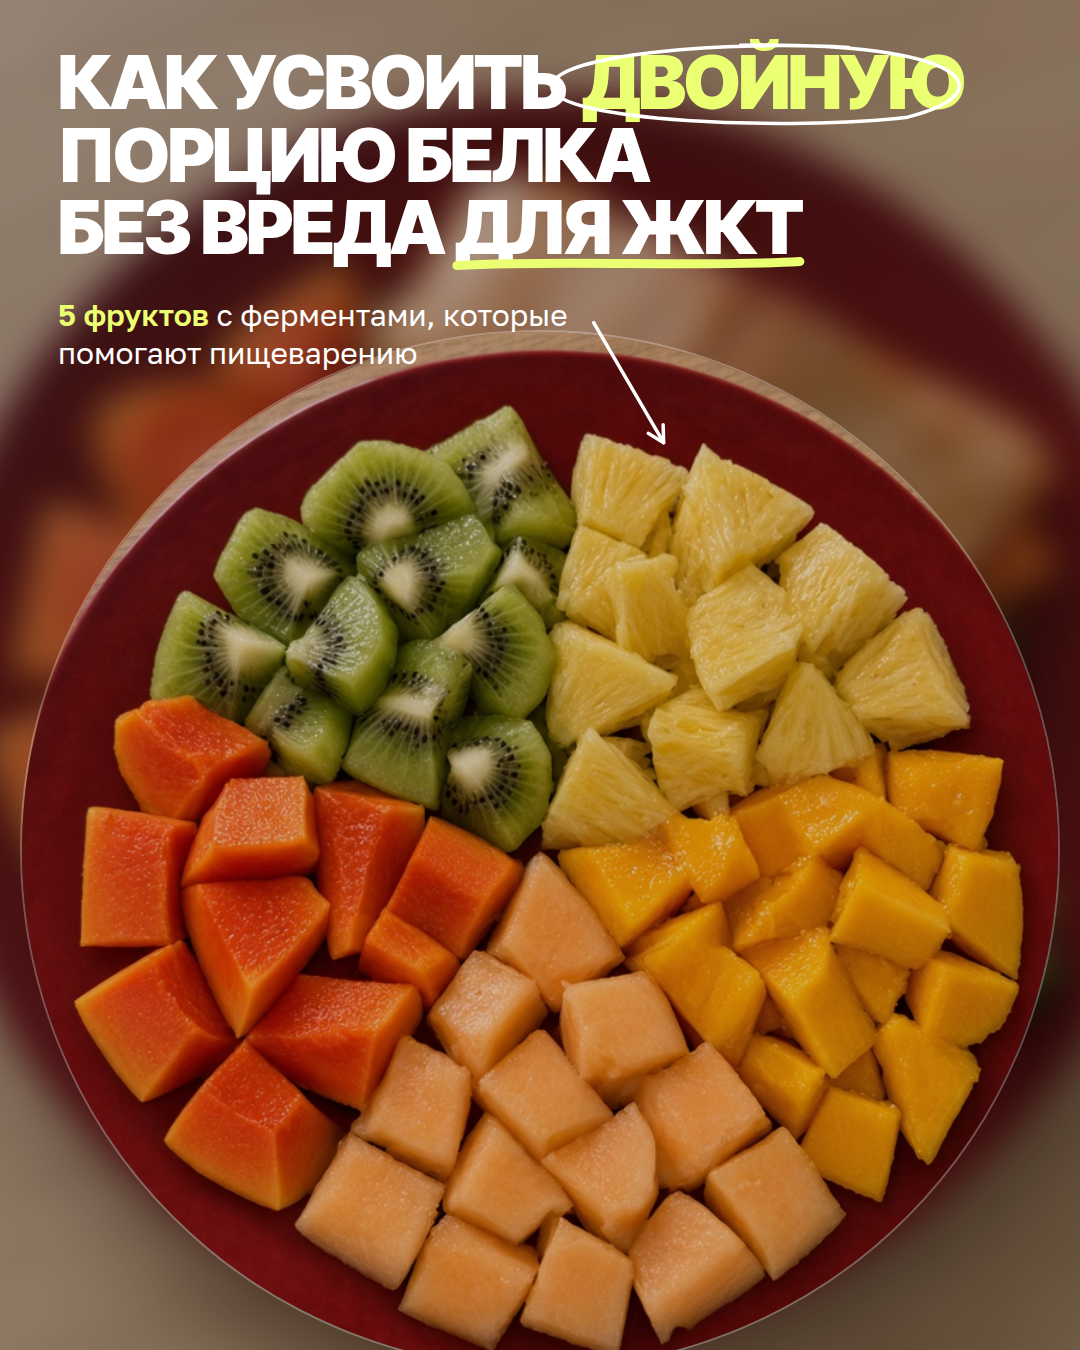
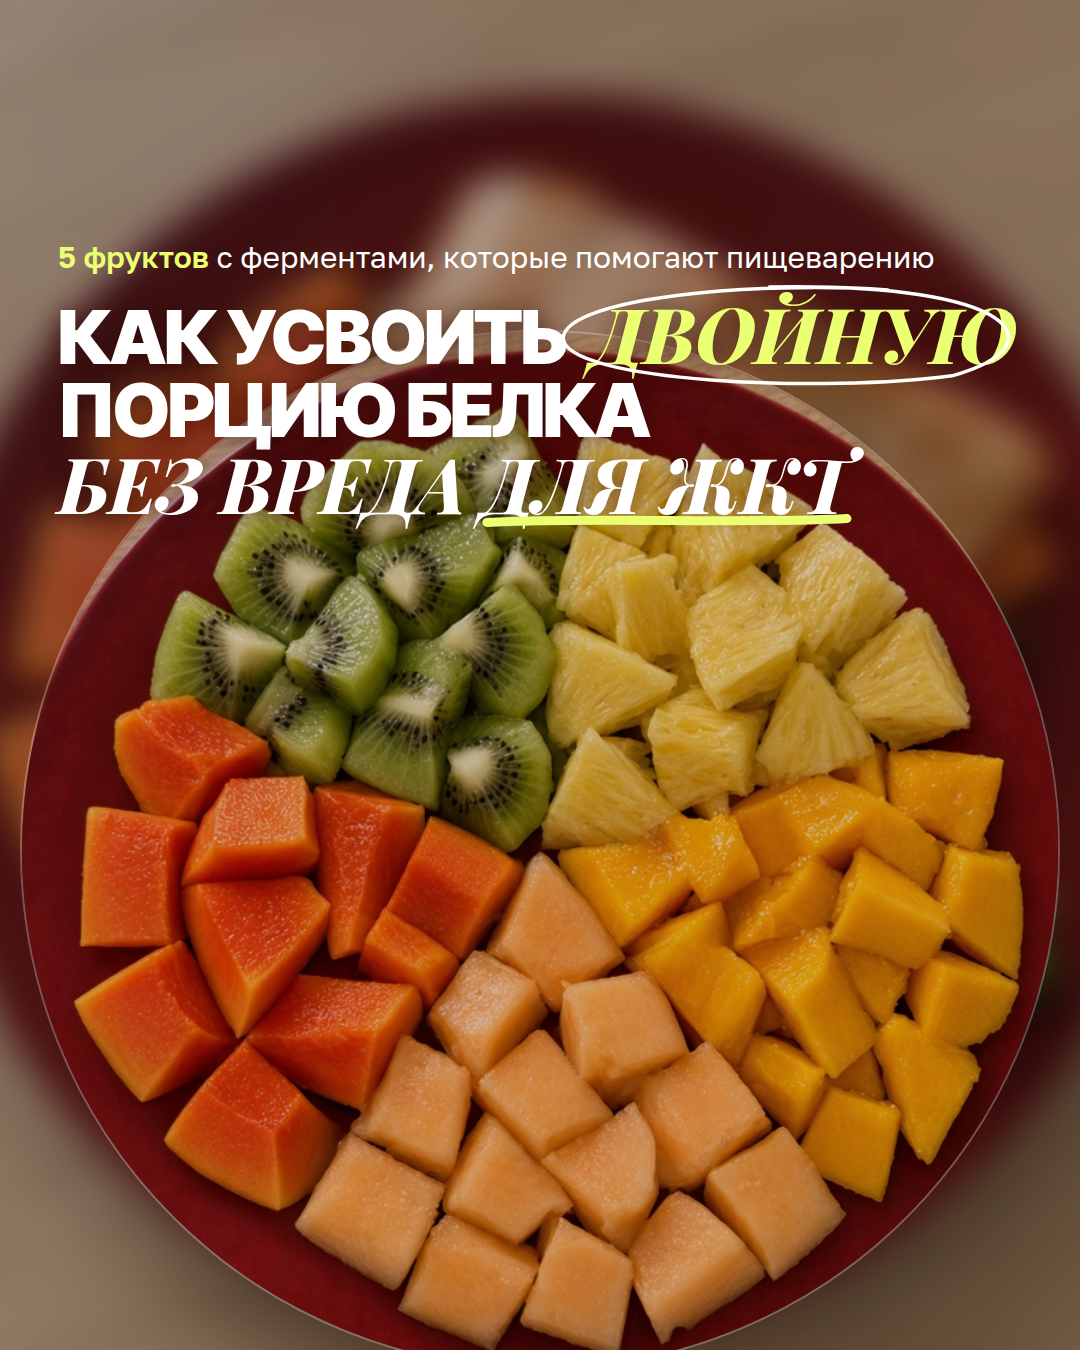
Cover: italic serif accents like reference, headline moved lower

Changed region(s): [[0.0306, 0.0311, 0.9472, 0.4044]]

diff --git a/instagram-fruits-zhkt/slide-01-title.html b/instagram-fruits-zhkt/slide-01-title.html
@@ -5,7 +5,7 @@
   <meta name="viewport" content="width=1080" />
   <link rel="preconnect" href="https://fonts.googleapis.com" />
   <link rel="preconnect" href="https://fonts.gstatic.com" crossorigin />
-  <link href="https://fonts.googleapis.com/css2?family=Golos+Text:wght@400;500;600&family=Inter+Tight:wght@800;900&display=swap" rel="stylesheet" />
+  <link href="https://fonts.googleapis.com/css2?family=Golos+Text:wght@400;500;600&family=Inter+Tight:wght@800;900&family=Playfair+Display:ital,wght@1,700;1,800&display=swap" rel="stylesheet" />
   <style>
     * { box-sizing: border-box; margin: 0; padding: 0; }
     html, body {
@@ -53,7 +53,7 @@
     .headline {
       position: absolute;
       z-index: 5;
-      top: 46px;
+      top: 296px;
       left: 58px;
       right: 40px;
       font-family: "Inter Tight", sans-serif;
@@ -63,14 +63,22 @@
       letter-spacing: -.03em;
       white-space: nowrap;
       text-transform: uppercase;
+      text-shadow: 0 2px 22px rgba(40, 10, 5, .55);
     }
     .headline span { display: inline-block; }
-    .headline .accent { color: #eaff72; padding: 0 6px; }
+    .headline .accent { color: #eaff72; padding: 0 4px; margin-left: 14px; }
+    .headline .serif {
+      font-family: "Playfair Display", serif;
+      font-style: italic;
+      font-weight: 800;
+      font-size: 76px;
+      letter-spacing: -.01em;
+    }
 
     .sub {
       position: absolute;
       z-index: 5;
-      top: 296px;
+      top: 238px;
       left: 58px;
       font-size: 30px;
       line-height: 1.27;
@@ -93,12 +101,12 @@
     <div class="plate"><img src="./cover-fruits-plate.jpg" alt=""></div>
 
     <h1 class="headline">
-      Как усвоить <span class="accent" id="accent">двойную</span><br>
+      Как усвоить <span class="accent serif" id="accent">двойную</span><br>
       порцию белка<br>
-      без вреда <span id="underline">для ЖКТ</span>
+      <span class="serif">без вреда <span id="underline">для ЖКТ</span></span>
     </h1>
 
-    <p class="sub"><b>5 фруктов</b> с ферментами, которые<br>помогают пищеварению</p>
+    <p class="sub"><b>5 фруктов</b> с ферментами, которые помогают пищеварению</p>
 
     <svg class="marks" id="marks" viewBox="0 0 1080 1350" xmlns="http://www.w3.org/2000/svg"></svg>
   </div>
@@ -127,7 +135,7 @@
       // Hand-drawn oval around the accent word.
       const a = box(document.getElementById("accent"));
       const cx = a.x + a.w / 2, cy = a.y + a.h / 2 + 2;
-      const rx = a.w / 2 + 20, ry = a.h / 2 + 2;
+      const rx = a.w / 2 + 22, ry = a.h / 2 + 10;
       path([
         `M ${cx - rx * 0.15} ${cy - ry * 1.02}`,
         `C ${cx + rx * 0.9} ${cy - ry * 1.12}, ${cx + rx * 1.08} ${cy + ry * 0.2}, ${cx + rx * 0.62} ${cy + ry * 0.86}`,
@@ -140,15 +148,6 @@
       const y = u.y + u.h - 2;
       path(`M ${u.x + 2} ${y + 4} C ${u.x + u.w * 0.3} ${y - 2}, ${u.x + u.w * 0.7} ${y + 6}, ${u.x + u.w - 2} ${y}`,
         { stroke: "#eaff72", "stroke-width": 9 });
-
-      // Straight arrow from the subtitle down to the plate.
-      const s = box(document.querySelector(".sub"));
-      const x0 = s.x + s.w + 26, y0 = s.y + s.h * 0.35;
-      const x1 = x0 + 70, y1 = y0 + 120;
-      path(`M ${x0} ${y0} L ${x1} ${y1}`, { stroke: "#ffffff", "stroke-width": 3.5 });
-      const ang = Math.atan2(y1 - y0, x1 - x0), L = 18, w = 0.5;
-      path(`M ${x1 - L * Math.cos(ang - w)} ${y1 - L * Math.sin(ang - w)} L ${x1} ${y1} L ${x1 - L * Math.cos(ang + w)} ${y1 - L * Math.sin(ang + w)}`,
-        { stroke: "#ffffff", "stroke-width": 3.5 });
     });
   </script>
 </body>
